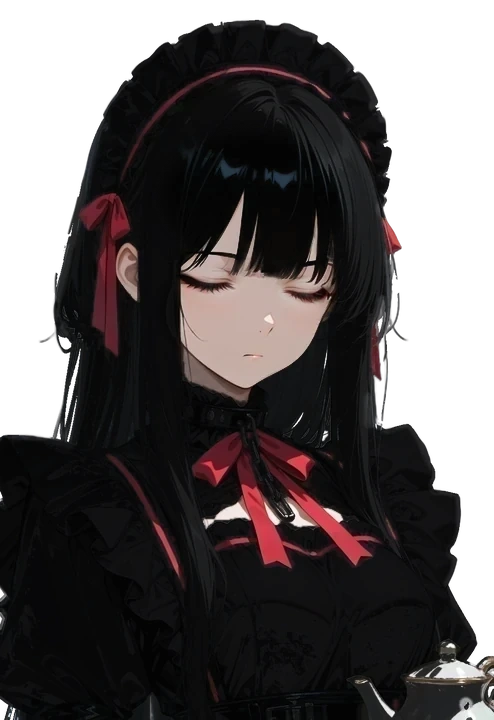
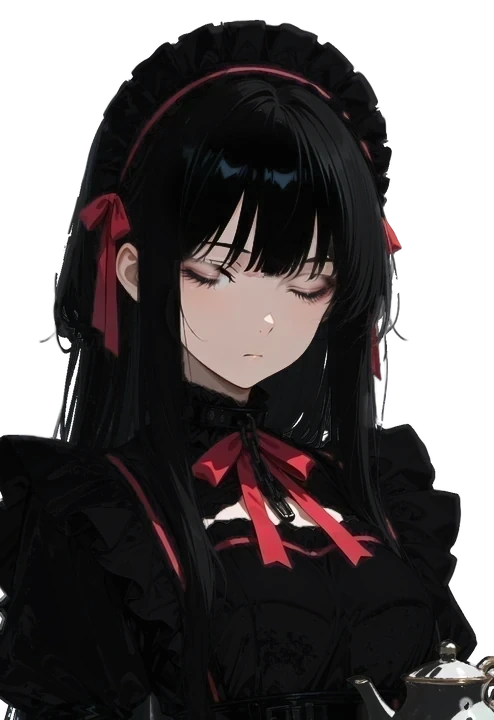
fix: まばたきが痙攣のように見えた。まばたきの絵が目以外 (前髪・眼鏡・口・頬) もふつうの顔と違っていて、0.14 秒の切り替えのたびに顔全体がピクッと動いていた。4人ともふつうの顔から目の中だけを閉じた目に描き直して作り直す。ART_VER を 6 に

Changed region(s): [[0.3644, 0.275, 0.5466, 0.4278], [0.5466, 0.3361, 0.6984, 0.4278]]

diff --git a/js3d/avatar.js b/js3d/avatar.js
@@ -93,7 +93,7 @@ const pick = (list) => list[Math.floor(Math.random() * list.length)];
 export const avatarIds = () => Object.keys(AVATARS).filter(id => !AVATARS[id].boss);
 /* 立ち絵の版。画像には版の印が付かないので、同じ名前で差し替えたらここを上げる (古い絵がしばらく出るのを防ぐ)。3 = 2026-10-01 頭の先まで入る枠で切り直し (E:SDSwarmUIOutputvatar_v2export_v4headroom.py) */
 /* 4 = 2026-10-05 4人の服と髪飾りを新デザインに寄せた (顔は前のまま。E:/SD/SwarmUI/Output/avatar_v2/export_v4/design_restyle.py) */
-export const ART_VER = 5;
+export const ART_VER = 6;
 /* 声の版。同じ名前で声を作り直したらここを上げる (古い声がしばらく鳴るのを防ぐ)。5 = 2026-10-02 読みの直し (止められ・上回・開いた・命) とセリフの差し替え */
 export const VOICE_VER = 9;
 /* 声の大きさをキャラどうしでそろえる。測った大きさ (ラウドネス、LUFS。ffmpeg の ebur128 の中央値) から、VOICE_TARGET へ合わせる倍率を出す。

diff --git a/three-play.html b/three-play.html
@@ -4603,7 +4603,7 @@
       "./js3d/audio.js": "./js3d/audio.js?v=46d0a80804",
       "./js3d/avatar-boss-lines.js": "./js3d/avatar-boss-lines.js?v=507ebedfac",
       "./js3d/avatar-lines.js": "./js3d/avatar-lines.js?v=5e00862ad8",
-      "./js3d/avatar.js": "./js3d/avatar.js?v=227997ef8a",
+      "./js3d/avatar.js": "./js3d/avatar.js?v=9f0118e212",
       "./js3d/backdrops.js": "./js3d/backdrops.js?v=90faf9612d",
       "./js3d/bgm-shop.js": "./js3d/bgm-shop.js?v=c1b34e6d03",
       "./js3d/bgm.js": "./js3d/bgm.js?v=13a05307f5",
@@ -4719,7 +4719,7 @@
   <link rel="modulepreload" href="js3d/spectate.js?v=ed159bd7b8">
   <link rel="modulepreload" href="js3d/watchtools.js?v=ad10da8d17">
   <link rel="modulepreload" href="js3d/replays-ui.js?v=c76f859c99">
-  <link rel="modulepreload" href="js3d/avatar.js?v=227997ef8a">
+  <link rel="modulepreload" href="js3d/avatar.js?v=9f0118e212">
   <link rel="modulepreload" href="js3d/avatar-lines.js?v=5e00862ad8">
   <link rel="modulepreload" href="js3d/motion.js?v=71cd68f8ff">
   <link rel="modulepreload" href="js3d/gacha.js?v=c86c6a30ac">
